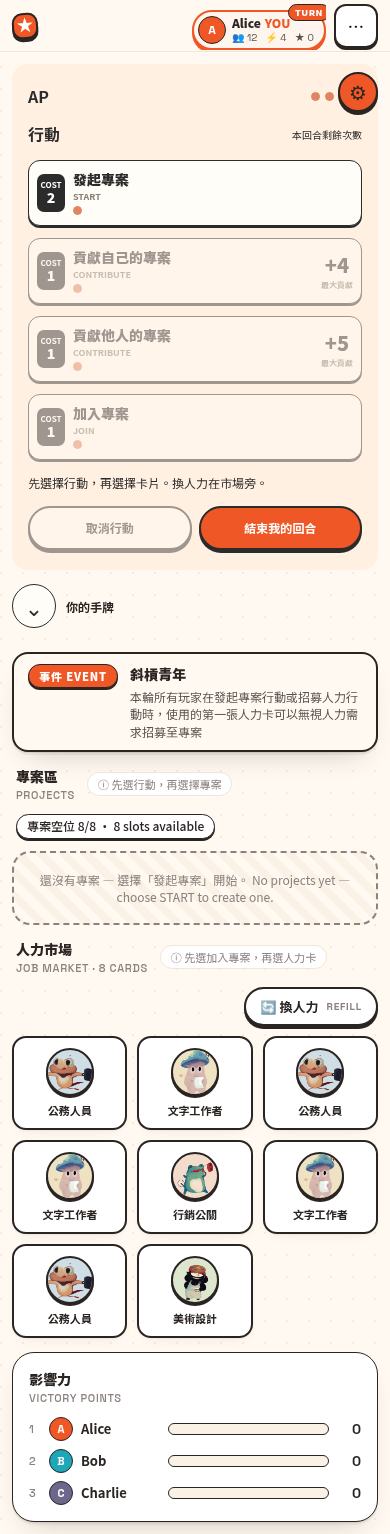
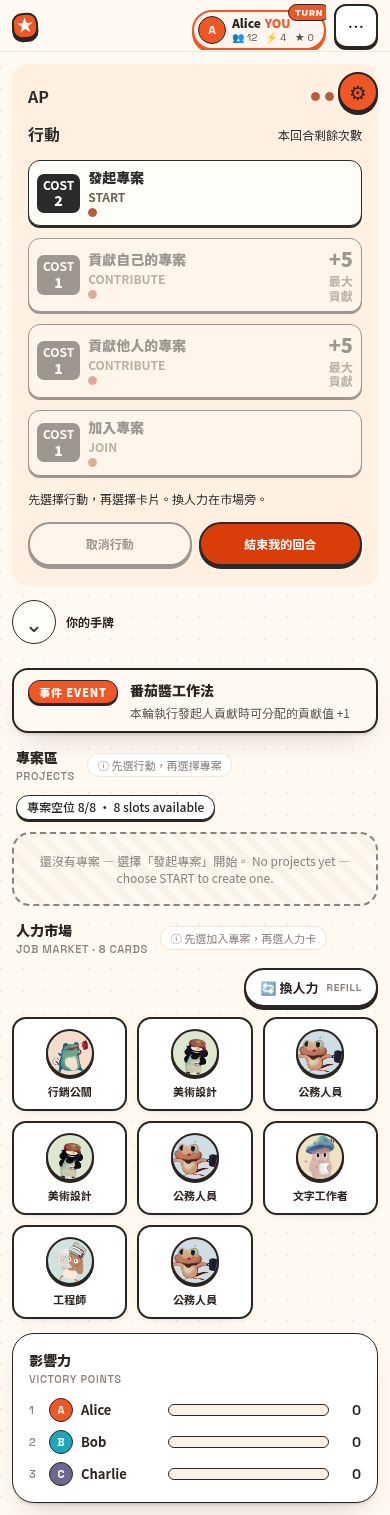
fix(webapp): fix action panel AP name and contrast
Give the AP counter role="img", raise small labels to 12px
at 4.5:1+, and darken selected outline and use-dots to #b85c3c.

diff --git a/packages/webapp/src/app/globals.css b/packages/webapp/src/app/globals.css
@@ -769,6 +769,8 @@ body:has(.modal[open]) {
 
 /* Action panel (story 14). Normal document flow on mobile keeps the board reachable. */
 .gr-action-panel {
+  --gr-text-secondary: #6e6556;
+  --gr-action-accent: #b85c3c;
   display: flex;
   flex-direction: column;
   gap: 14px;
@@ -795,7 +797,7 @@ body:has(.modal[open]) {
   font-weight: 700;
 }
 .gr-action-panel__heading > span {
-  font-size: 10px;
+  font-size: 12px;
   text-align: right;
 }
 .gr-action-panel__dots { display: flex; flex-wrap: wrap; gap: 5px; }
@@ -804,10 +806,10 @@ body:has(.modal[open]) {
   width: 9px;
   height: 9px;
   flex-shrink: 0;
-  border: 1px solid #dd8664;
+  border: 1px solid var(--gr-action-accent);
   border-radius: 50%;
 }
-.gr-action-panel__dot[data-remaining="true"] { background: #dd8664; }
+.gr-action-panel__dot[data-remaining="true"] { background: var(--gr-action-accent); }
 .gr-action-panel__actions { display: flex; flex-direction: column; gap: 12px; }
 .gr-panel-action {
   justify-content: flex-start;
@@ -821,27 +823,34 @@ body:has(.modal[open]) {
   text-align: left;
   white-space: normal;
 }
-.gr-panel-action[aria-pressed="true"] { outline: 3px solid #dd8664; outline-offset: 2px; }
+.gr-panel-action[aria-pressed="true"] { outline: 3px solid var(--gr-action-accent); outline-offset: 2px; }
 .gr-panel-action__cost {
   display: flex;
   flex-direction: column;
   align-items: center;
   justify-content: center;
-  width: 28px;
+  width: auto;
+  padding: 4px 6px;
   min-height: 38px;
   flex-shrink: 0;
   border-radius: 7px;
   background: var(--gr-ink);
   color: white;
 }
-.gr-panel-action__cost > span { font-size: 8px; }
+.gr-panel-action__cost > span { font-size: 12px; }
 .gr-panel-action__cost > strong { font-size: 14px; }
 .gr-panel-action__label { display: flex; flex: 1; flex-direction: column; gap: 4px; min-width: 0; }
-.gr-panel-action__label > strong { font-size: 14px; }
-.gr-panel-action__en { font-size: 9px; color: var(--gr-text-secondary); }
+.gr-panel-action__label > strong { font-size: 14px; white-space: nowrap; }
+.gr-panel-action__en { font-size: 12px; color: var(--gr-text-secondary); }
 .gr-panel-action__gain { display: flex; flex-direction: column; align-items: center; flex-shrink: 0; gap: 3px; }
 .gr-panel-action__gain > strong { font-size: 20px; }
-.gr-panel-action__gain > span { font-size: 8px; color: var(--gr-text-secondary); }
+.gr-panel-action__gain > span {
+  width: 2em;
+  font-size: 12px;
+  color: var(--gr-text-secondary);
+  text-align: center;
+  line-height: 1.2;
+}
 .gr-action-panel__selection { font-size: 12px; line-height: 1.5; }
 .gr-action-panel__selection p { margin: 0; }
 .gr-action-panel__footer { display: flex; gap: 7px; margin-top: auto; }

diff --git a/packages/webapp/src/components/board/ContextAction.test.tsx b/packages/webapp/src/components/board/ContextAction.test.tsx
@@ -95,6 +95,7 @@ it('reads changed AP costs and contribution limits from the active rules', () =>
     G.rules.action.contributeJoinedProjects.maxContributionValue = 9;
     PlayersMutator.resetActionTokens(G.players, '0', 2);
   });
+  expect(screen.getByRole('img', { name: '剩餘 2 AP' })).toBe(screen.getByLabelText('剩餘 2 AP'));
   expect(screen.getByLabelText('剩餘 2 AP').children).toHaveLength(6);
   expect(within(actionButton(UserActionMoves.CreateProject)).getByLabelText('COST 3')).toBeTruthy();
   expect(actionButton(UserActionMoves.CreateProject).disabled).toBe(true);

diff --git a/packages/webapp/src/components/board/ContextAction.tsx b/packages/webapp/src/components/board/ContextAction.tsx
@@ -392,6 +392,7 @@ export default function ContextAction({ gameContext }: { gameContext: GameContex
           className="gr-action-panel__dots"
           data-testid="ap-dots"
           data-ap={actionTokens}
+          role="img"
           aria-label={`剩餘 ${actionTokens} AP`}
         >
           {Array.from({ length: Math.max(actionTokens, RuleSelector.getPlayerMaxActionTokens(G.rules)) }, (_, i) => (
